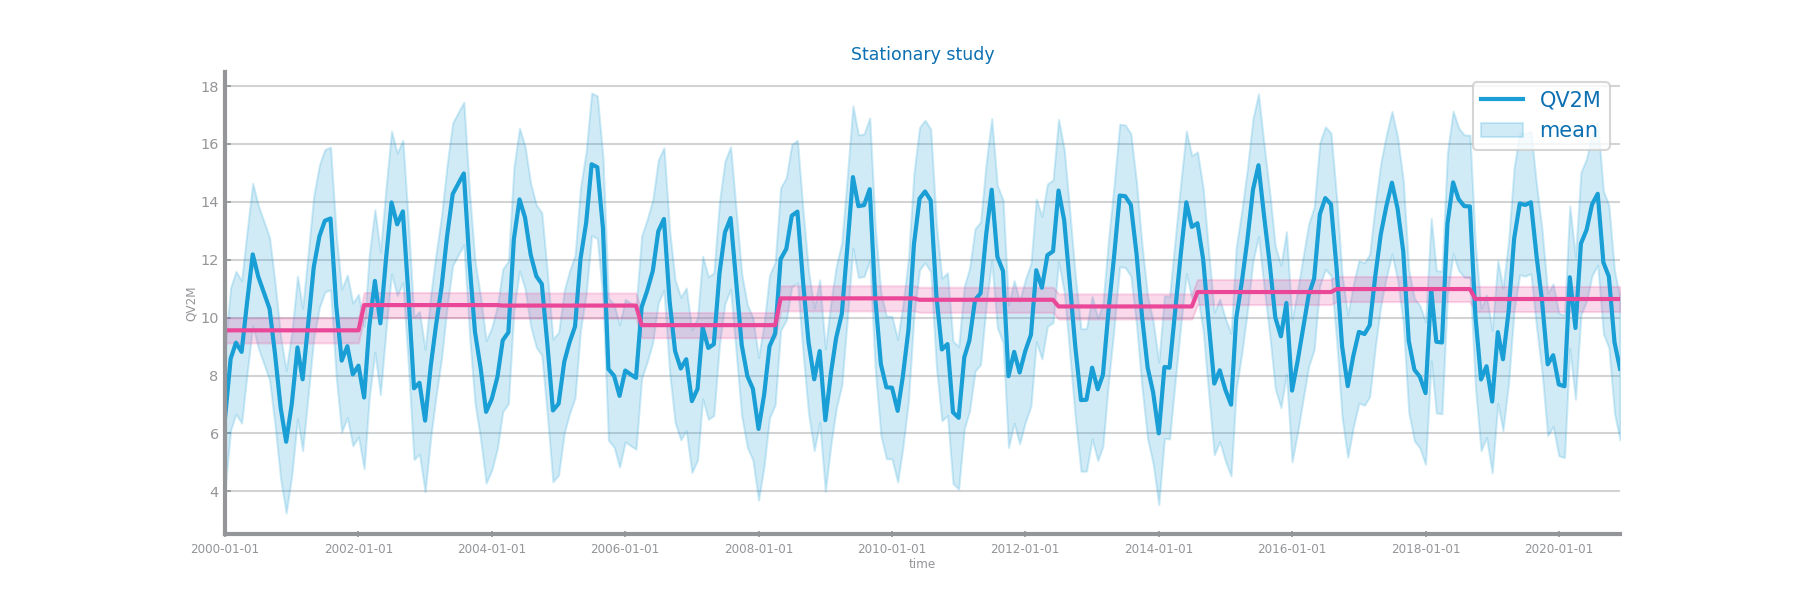
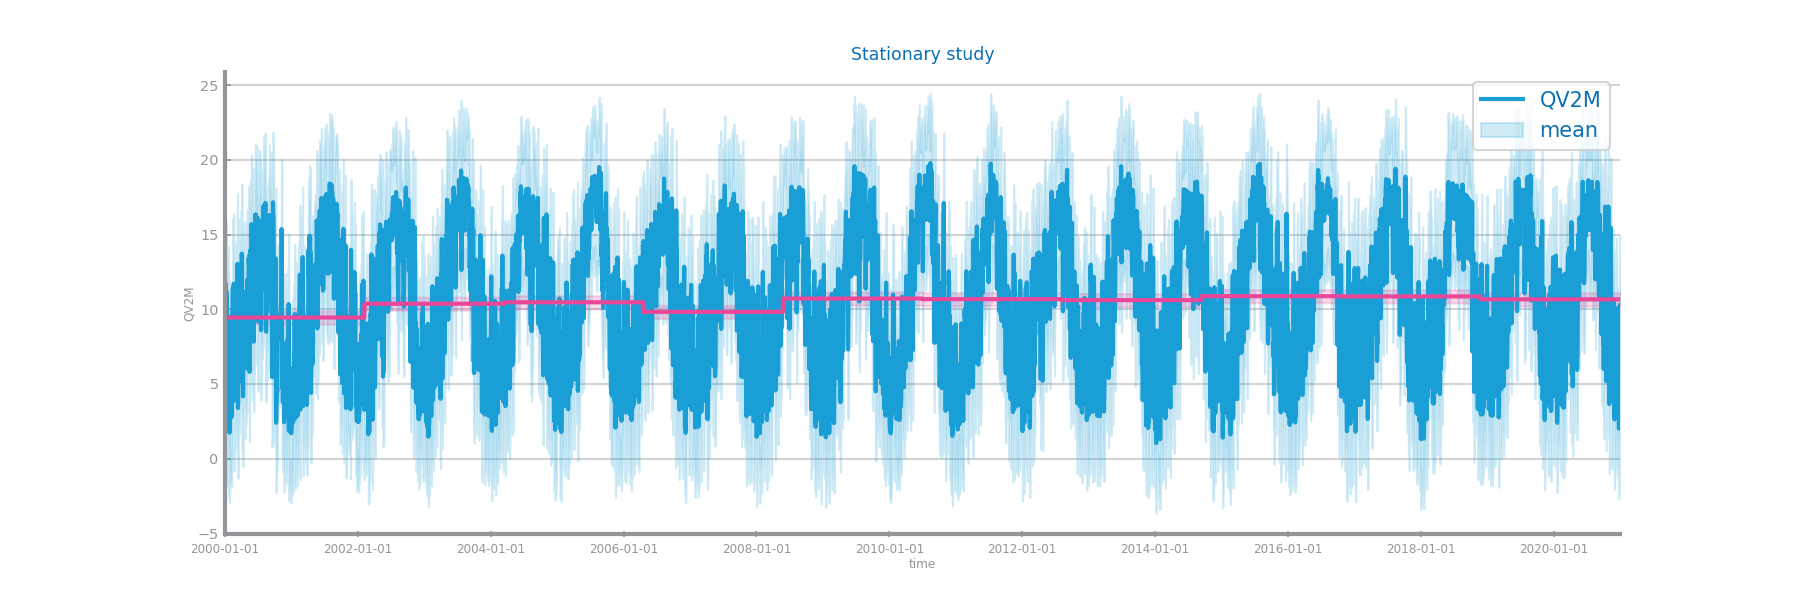
last images of dataset2

diff --git a/Forecasting/forecasting2.py b/Forecasting/forecasting2.py
@@ -7,34 +7,10 @@ from ts_functions import HEIGHT, split_dataframe, create_temporal_dataset
 from sklearn.base import RegressorMixin
 from ts_functions import PREDICTION_MEASURES, plot_evaluation_results, plot_forecasting_series
 
-def aggregate_by(data: Series, index_var: str, period: str):
-    index = data.index.to_period(period)
-    agg_df = data.copy().groupby(index).mean()
-    agg_df[index_var] = index.drop_duplicates().to_timestamp()
-    agg_df.set_index(index_var, drop=True, inplace=True)
-    return agg_df
-
-file_tag = 'drought_smoothing10'
+file_tag = 'drought'
 index_multi = 'date'
 target_multi = 'QV2M'
 data_multi = read_csv('../droughtDrop.csv', index_col='date', sep=',', decimal='.', parse_dates=True, dayfirst=True)
-
-train, test = split_dataframe(data_multi, trn_pct=0.75)
-train = aggregate_by(train, index_multi, 'D')
-
-WIN_SIZE = 10
-rolling_multi = train.rolling(window=WIN_SIZE)
-smooth_df_multi = rolling_multi.mean()
-#figure(figsize=(3*HEIGHT, HEIGHT/2))
-#plot_series(smooth_df_multi[target_multi], title=f'Glucose - Smoothing (win_size={WIN_SIZE})', x_label=index_multi, y_label='glucose level')
-#xticks(rotation = 45)
-#show()
-#savefig(f'imagesD1Transformation/{file_tag}.png')
-
-train = smooth_df_multi
-train.drop(index=train.index[:WIN_SIZE], axis=0, inplace=True)
-#df.to_csv(f'../{file_tag}.csv', index=False)
-
 
 def split_dataframe(data, trn_pct=0.70):
     trn_size = int(len(data) * trn_pct)
@@ -43,13 +19,13 @@ def split_dataframe(data, trn_pct=0.70):
     test: DataFrame = df_cp.iloc[trn_size:]
     return train, test
 
-#train, test = split_dataframe(df, trn_pct=0.75)
-
 measure = 'R2'
 flag_pct = False
 eval_results = {}
 
-class PersistenceRegressor (RegressorMixin):
+train, test = split_dataframe(data_multi, trn_pct=0.75)
+
+'''class PersistenceRegressor (RegressorMixin):
     def __init__(self):
         super().__init__()
         self.last = 0
@@ -71,9 +47,9 @@ prd_tst = fr_mod.predict(test)
 eval_results['Persistence'] = PREDICTION_MEASURES[measure](test.values, prd_tst)
 print(eval_results)
 
-plot_evaluation_results(train.values, prd_trn, test.values, prd_tst, f'imagesD2Transformation/{file_tag}_persistence_eval.png')
-plot_forecasting_series(train, test, prd_trn, prd_tst, f'imagesD2Transformation/{file_tag}_persistence_plots.png', x_label=index_multi, y_label=target_multi)
-'''
+plot_evaluation_results(train.values, prd_trn, test.values, prd_tst, f'imagesD2Forecasting/{file_tag}_persistence_eval.png')
+plot_forecasting_series(train, test, prd_trn, prd_tst, f'imagesD2Forecasting/{file_tag}_persistence_plots.png', x_label=index_multi, y_label=target_multi)
+
 class SimpleAvgRegressor (RegressorMixin):
     def __init__(self):
         super().__init__()
@@ -94,11 +70,11 @@ prd_tst = fr_mod.predict(test)
 eval_results['SimpleAvg'] = PREDICTION_MEASURES[measure](test.values, prd_tst)
 print(eval_results)
 
-plot_evaluation_results(train.values, prd_trn, test.values, prd_tst, f'imagesD1Transformation/{file_tag}_simpleAvg_eval.png')
-plot_forecasting_series(train, test, prd_trn, prd_tst, f'imagesD1Transformation/{file_tag}_simpleAvg_plots.png', x_label=index_multi, y_label=target_multi)
+plot_evaluation_results(train.values, prd_trn, test.values, prd_tst, f'imagesD2Forecasting/{file_tag}_simpleAvg_eval.png')
+plot_forecasting_series(train, test, prd_trn, prd_tst, f'imagesD2Forecasting/{file_tag}_simpleAvg_plots.png', x_label=index_multi, y_label=target_multi)
 
 class RollingMeanRegressor (RegressorMixin):
-    def __init__(self, win: int = 5):
+    def __init__(self, win: int = 10):
         super().__init__()
         self.win_size = win
 
@@ -119,15 +95,15 @@ prd_tst = fr_mod.predict(test)
 eval_results['RollingMean'] = PREDICTION_MEASURES[measure](test.values, prd_tst)
 print(eval_results)
 
-plot_evaluation_results(train.values, prd_trn, test.values, prd_tst, f'imagesD1Transformation/{file_tag}_win=5_rollingMean_eval.png')
-plot_forecasting_series(train, test, prd_trn, prd_tst, f'imagesD1Transformation/{file_tag}_win=5_rollingMean_plots.png', x_label=index_multi, y_label=target_multi)
-'''
-'''
+plot_evaluation_results(train.values, prd_trn, test.values, prd_tst, f'imagesD2Forecasting/{file_tag}_win=10_rollingMean_eval.png')
+plot_forecasting_series(train, test, prd_trn, prd_tst, f'imagesD2Forecasting/{file_tag}_win=10_rollingMean_plots.png', x_label=index_multi, y_label=target_multi)
+
+
 from statsmodels.tsa.arima.model import ARIMA
 
-pred = ARIMA(train, order=(2, 0, 2))
-model = pred.fit(method_kwargs={'warn_convergence': False})
-model.plot_diagnostics(figsize=(2*HEIGHT, 2*HEIGHT))
+#pred = ARIMA(train, order=(2, 0, 2))
+#model = pred.fit(method_kwargs={'warn_convergence': False})
+#model.plot_diagnostics(figsize=(2*HEIGHT, 2*HEIGHT))
 
 from matplotlib.pyplot import subplots, show, savefig
 from ds_charts import multiple_line_chart
@@ -162,21 +138,21 @@ for der in range(len(d_values)):
         values[q] = yvalues
     multiple_line_chart(
         params, values, ax=axs[0, der], title=f'ARIMA d={d}', xlabel='p', ylabel=measure, percentage=flag_pct)
-savefig(f'imagesD1Arima/{file_tag}_ts_arima_study.png')
+savefig(f'imagesD2Arima/{file_tag}_ts_arima_study.png')
 show()
 print(f'Best results achieved with (p,d,q)=({best[0]}, {best[1]}, {best[2]}) ==> measure={last_best:.2f}')
-
+'''
 
 from statsmodels.tsa.arima.model import ARIMA
 from ts_functions import PREDICTION_MEASURES, plot_evaluation_results, plot_forecasting_series
 
-#md = ARIMA(train, order=(1, 2, 3))
-#md = md.fit(method_kwargs={'warn_convergence': False})
-prd_trn = best_model.predict(start=0, end=len(train)-1)
-prd_tst = best_model.forecast(steps=len(test))
-#prd_trn = md.predict(start=0, end=len(train)-1)
-#prd_tst = md.forecast(steps=len(test))
+md = ARIMA(train, order=(1, 2, 2))
+md = md.fit(method_kwargs={'warn_convergence': False})
+#prd_trn = best_model.predict(start=0, end=len(train)-1)
+#prd_tst = best_model.forecast(steps=len(test))
+prd_trn = md.predict(start=0, end=len(train)-1)
+prd_tst = md.forecast(steps=len(test))
 print(f'\t{measure}={PREDICTION_MEASURES[measure](test, prd_tst)}')
 
-plot_evaluation_results(train.values, prd_trn, test.values, prd_tst, f'imagesD1Arima/{file_tag}_arima_eval.png')
-plot_forecasting_series(train, test, prd_trn, prd_tst, f'imagesD1Arima/{file_tag}_arima_plots.png', x_label= str(index_multi), y_label=str(target_multi))'''
+plot_evaluation_results(train.values, prd_trn, test.values, prd_tst, f'imagesD2Arima/{file_tag}_arima_1_2_2_eval.png')
+plot_forecasting_series(train, test, prd_trn, prd_tst, f'imagesD2Arima/{file_tag}_arima_1_2_2_plots.png', x_label= str(index_multi), y_label=str(target_multi))

diff --git a/Forecasting/differentiation2.py b/Forecasting/differentiation2.py
@@ -7,10 +7,10 @@ from ts_functions import HEIGHT, split_dataframe, create_temporal_dataset
 from sklearn.base import RegressorMixin
 from ts_functions import PREDICTION_MEASURES, plot_evaluation_results, plot_forecasting_series
 
-file_tag = 'drought_diff_2'
+file_tag = 'drought_diff_1'
 index_multi = 'date'
 target_multi = 'QV2M'
-data_multi = read_csv('../drought.forecasting_dataset.csv', index_col=index_multi, parse_dates=True, dayfirst=True)
+data_multi = read_csv('../droughtDrop.csv', index_col=index_multi, parse_dates=True, dayfirst=True)
 
 def aggregate_by(data: Series, index_var: str, period: str):
     index = data.index.to_period(period)
@@ -19,26 +19,17 @@ def aggregate_by(data: Series, index_var: str, period: str):
     agg_df.set_index(index_var, drop=True, inplace=True)
     return agg_df
 
-agg_multi_df = aggregate_by(data_multi, index_multi, 'M')
+agg_multi_df = aggregate_by(data_multi, index_multi, 'D')
 
 WIN_SIZE = 50
 rolling_multi = agg_multi_df.rolling(window=WIN_SIZE)
 smooth_df_multi = rolling_multi.mean()
 
 diff_df_multi = smooth_df_multi.diff()
-diff_df_multi = diff_df_multi.diff()
-#diff_df_multi = data_multi
-figure(figsize=(3*HEIGHT, HEIGHT))
-plot_series(diff_df_multi[target_multi], title='Drought - Differentiation 2', x_label=index_multi, y_label='QV2M')
-#plot_series(diff_df_multi['PRECTOT'])
-xticks(rotation = 45)
-show()
-savefig(f'imagesD2Transformation/{file_tag}.png')
+#diff_df_multi = diff_df_multi.diff()
 
-df = diff_df_multi.drop(['PRECTOT','PS','T2M','T2MDEW','T2MWET','TS'], axis=1)
-df.drop(index=df.index[:WIN_SIZE], axis=0, inplace=True)
-df.drop(index=df.index[:2], axis=0, inplace=True)
-#df.to_csv(f'../{file_tag}.csv', index=False)
+diff_df_multi.drop(index=diff_df_multi.index[:WIN_SIZE], axis=0, inplace=True)
+diff_df_multi.drop(index=diff_df_multi.index[:2], axis=0, inplace=True)
 
 
 def split_dataframe(data, trn_pct=0.70):
@@ -48,7 +39,7 @@ def split_dataframe(data, trn_pct=0.70):
     test: DataFrame = df_cp.iloc[trn_size:]
     return train, test
 
-train, test = split_dataframe(df, trn_pct=0.75)
+train, test = split_dataframe(diff_df_multi, trn_pct=0.75)
 
 measure = 'R2'
 flag_pct = False

diff --git a/Forecasting/aggregation2.py b/Forecasting/aggregation2.py
@@ -16,21 +16,10 @@ def aggregate_by(data: Series, index_var: str, period: str):
     agg_df.set_index(index_var, drop=True, inplace=True)
     return agg_df
 
-file_tag = 'drought_agg_monthly'
+file_tag = 'drought_agg_quarterly'
 index_multi = 'date'
 target_multi = 'QV2M'
-data_multi = read_csv('../drought.forecasting_dataset.csv', index_col=index_multi, parse_dates=True, dayfirst=True)
-
-figure(figsize=(3*HEIGHT, HEIGHT))
-agg_multi_df = aggregate_by(data_multi, index_multi, 'M')
-#agg_multi_df.to_csv(f'../{file_tag}.csv', index=False)
-plot_series(agg_multi_df[target_multi], title='Monthly', x_label='timestamp', y_label='QV2M')
-#plot_series(agg_multi_df['PRECTOT'])
-xticks(rotation = 45)
-show()
-savefig(f'imagesD2Transformation/{file_tag}.png')
-
-'''df = agg_multi_df.drop(['PRECTOT','PS','T2M','T2MDEW','T2MWET','TS'], axis=1)
+data_multi = read_csv('../droughtDrop.csv', index_col=index_multi, parse_dates=True, dayfirst=True)
 
 def split_dataframe(data, trn_pct=0.70):
     trn_size = int(len(data) * trn_pct)
@@ -39,7 +28,12 @@ def split_dataframe(data, trn_pct=0.70):
     test: DataFrame = df_cp.iloc[trn_size:]
     return train, test
 
-train, test = split_dataframe(df, trn_pct=0.75)
+train, test = split_dataframe(data_multi, trn_pct=0.75)
+
+figure(figsize=(3*HEIGHT, HEIGHT))
+train = aggregate_by(train, index_multi, 'Q')
+#agg_multi_df.to_csv(f'../{file_tag}.csv', index=False)
+
 
 measure = 'R2'
 flag_pct = False
@@ -68,4 +62,4 @@ eval_results['Persistence'] = PREDICTION_MEASURES[measure](test.values, prd_tst)
 print(eval_results)
 
 plot_evaluation_results(train.values, prd_trn, test.values, prd_tst, f'imagesD2Transformation/{file_tag}_persistence_eval.png')
-plot_forecasting_series(train, test, prd_trn, prd_tst, f'imagesD2Transformation/{file_tag}_persistence_plots.png', x_label=index_multi, y_label=target_multi)'''
+plot_forecasting_series(train, test, prd_trn, prd_tst, f'imagesD2Transformation/{file_tag}_persistence_plots.png', x_label=index_multi, y_label=target_multi)

diff --git a/Forecasting/stationarity2.py b/Forecasting/stationarity2.py
@@ -7,7 +7,7 @@ from ts_functions import plot_series, HEIGHT
 
 data = read_csv('../drought.forecasting_dataset.csv', index_col='date', sep=',', decimal='.', parse_dates=True, dayfirst=True)
 
-index = data.index.to_period('M')
+index = data.index.to_period('D')
 month_df = data.copy().groupby(index).mean()
 month_df['timestamp'] = index.drop_duplicates().to_timestamp()
 month_df.set_index('timestamp', drop=True, inplace=True)
